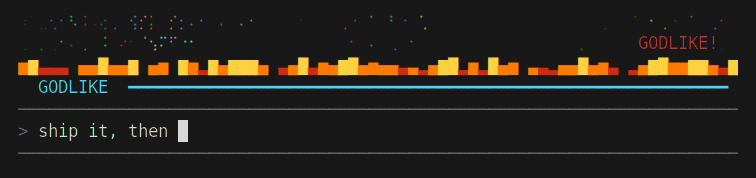
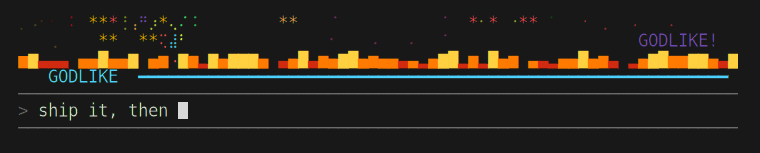
Celebrate levels drawn and documented; bigger band, starry bursts
Levels 2 to 4 grow the band (6 rows for 2, 10 for 3 and 4) so the
fireworks burst in view; rockets aim at the band's height. Firework
fragments show as stars before fading, each burst keeps its rocket's
color, and a level 3 or 4 shout holds for the whole show. The demo
renders one GIF per level, on a fixed canvas so every frame encodes.

diff --git a/hooks/register.tsx b/hooks/register.tsx
@@ -3,7 +3,8 @@ import type { Register } from 'claude-code'
 
 const isActive = atom({ plugin: 'power-mode', key: 'isActive' } as const, false)
 const isEnabled = atom({ plugin: 'power-mode', key: 'isEnabled' } as const, true)
-const isNuking = atom({ plugin: 'power-mode', key: 'isNuking' } as const, false)
+// The band grows for a nuke and for the bigger celebrations.
+const isTall = atom({ plugin: 'power-mode', key: 'isTall' } as const, false)
 
 const TICK_MS = 33
 // Columns the prompt draws before the draft ("> "), so sparks leave the caret.
@@ -20,6 +21,7 @@ const NUKE_MS = 2800
 const NUKE_ROWS = 10 // the band grows to this many spark rows for a nuke, room allowing
 const CELEBRATE = 'celebrate'
 const VOLLEY_MS = 350 // between rocket volleys at level 4
+const STAR_MS = 220 // how long a firework fragment shows as a star
 const LEVEL_SHOUTS = ['', 'Nice!', 'Boom!', 'Huge!', 'LEGENDARY!', 'KABOOM!']
 // What a long paste becomes in the prompt box: the mod may see this, not the text.
 const PASTE_PLACEHOLDER = /\[Pasted text #(\d+)/g
@@ -57,9 +59,11 @@ const BASE64 = 'ABCDEFGHIJKLMNOPQRSTUVWXYZabcdefghijklmnopqrstuvwxyz0123456789+/
 
 // `h` is height above the bottom of the spark rows, in braille dots, so a
 // particle stays put when the band grows for a nuke.
-type Particle = { x: number; h: number; vx: number; vh: number; age: number; life: number; color: number; fuse: number }
+// A `star` is a fresh firework fragment, drawn as a full `*` before it fades to a dot.
+type Particle = { x: number; h: number; vx: number; vh: number; age: number; life: number; color: number; fuse: number; star?: boolean }
 type Geometry = { requestId: string; columns: number; rows: number }
-type Exclamation = { text: string; age: number; color: number }
+// `ms` is how long it shows; a big celebration holds its shout for the whole show.
+type Exclamation = { text: string; age: number; color: number; ms: number }
 type Nuke = { age: number; column: number }
 
 const clamp = (n: number, lo: number, hi: number) => Math.max(lo, Math.min(hi, Math.floor(n)))
@@ -121,6 +125,20 @@ export const register: Register = (on, options) => {
   let shakeUntil = 0
   // Rocket volleys still to launch for a level-4 celebration, by frame time.
   let volleys: number[] = []
+  // While `tall`, the band is `tallRows` spark rows (room allowing) until `tallUntil`.
+  let tall = false
+  let tallRows = NUKE_ROWS
+  let tallUntil = 0
+  let maxRowsSeen = 24
+
+  function grow(rows: number, ms: number) {
+    tall = true
+    tallRows = Math.max(rows, nuke !== undefined ? NUKE_ROWS : 0)
+    tallUntil = Math.max(tallUntil, t + ms)
+  }
+
+  // Spark rows the band has, or is about to have: what rockets aim for.
+  const bandRows = () => (tall ? clamp(Math.min(tallRows, maxRowsSeen - 2), sparkRows, NUKE_ROWS) : sparkRows)
   const seenPastes = new Set<string>()
 
   // Placeholder ids in `text` not seen before: each one is a long paste.
@@ -139,14 +157,14 @@ export const register: Register = (on, options) => {
 
   // One animation frame from a timer: what the hook that owns the timer must do.
   function tick(): { saveBest: boolean; shrink: boolean; stop: boolean; cells?: string } {
-    const { expired, nukeEnded, idle } = step()
+    const { expired, shrink, idle } = step()
 
-    return { saveBest: expired, shrink: nukeEnded, stop: idle, cells: !idle && geometry !== undefined ? frame() : undefined }
+    return { saveBest: expired, shrink, stop: idle, cells: !idle && geometry !== undefined ? frame() : undefined }
   }
 
   const colorsNow = () => (tierOf(combo) === TIERS.length - 1 ? RAINBOW : palette)
 
-  function burst(column: number, count: number, spread: number, speed: number, fireworks = false) {
+  function burst(column: number, count: number, spread: number, speed: number, fireworks = false, star = false) {
     for (let i = 0; i < count; i++) {
       particles.push({
         x: column * 2 + 1 + (Math.random() - 0.5) * spread,
@@ -157,6 +175,7 @@ export const register: Register = (on, options) => {
         life: 450 + Math.random() * 500,
         color: pick(colorsNow()),
         fuse: fireworks && Math.random() < 0.15 ? 250 + Math.random() * 200 : 0,
+        star,
       })
     }
     if (particles.length > 600) particles = particles.slice(-600)
@@ -254,7 +273,15 @@ export const register: Register = (on, options) => {
       if (dx < 0 || dy < 0 || dx >= columns * 2 || dy >= height) continue
       const i = Math.floor(dy / 4) * columns + Math.floor(dx / 2)
       const held = glyph[i] ?? SPACE
-      // Sparks draw over empty cells and other sparks, never over cloud or flame.
+      if (p.star && p.age < STAR_MS) {
+        if (held === SPACE || (held >= 0x2800 && held <= 0x28ff)) {
+          glyph[i] = 0x2a // *
+          fg[i] = p.color
+          freshest[i] = -1
+        }
+        continue
+      }
+      // Sparks draw over empty cells and other sparks, never over cloud, flame or a star.
       if (held !== SPACE && (held < 0x2800 || held > 0x28ff)) continue
       glyph[i] = (held === SPACE ? 0x2800 : held) | (DOT[(dy % 4) * 2 + (dx % 2)] ?? 0)
       if (p.age < (freshest[i] ?? Infinity)) {
@@ -265,7 +292,7 @@ export const register: Register = (on, options) => {
 
     // The exclamation floats up the right side of the spark rows.
     if (exclamation !== undefined) {
-      const k = exclamation.age / EXCLAIM_MS
+      const k = exclamation.age / exclamation.ms
       const row = clamp((spark - 1) * (1 - k), 0, spark - 1)
       const jitter = exclamation.age < 300 ? Math.round((Math.random() - 0.5) * 2) : 0
       const start = clamp(columns - exclamation.text.length - 2 + jitter, 0, columns)
@@ -309,9 +336,9 @@ export const register: Register = (on, options) => {
     return toBase64(new Uint8Array(words.buffer))
   }
 
-  // Advances one frame. `expired` says the combo just ran out, `nukeEnded`
-  // that the band can shrink back, `idle` that the timer should stop.
-  function step(): { expired: boolean; nukeEnded: boolean; idle: boolean } {
+  // Advances one frame. `expired` says the combo just ran out, `shrink` that
+  // the band can go back to its size, `idle` that the timer should stop.
+  function step(): { expired: boolean; shrink: boolean; idle: boolean } {
     t += TICK_MS
     const dt = TICK_MS / 1000
     const born: Particle[] = []
@@ -327,7 +354,7 @@ export const register: Register = (on, options) => {
         for (let i = 0; i < 10; i++) {
           const a = (i / 10) * Math.PI * 2
           const v = 18 + Math.random() * 8
-          born.push({ x: p.x, h: p.h, vx: Math.cos(a) * v * 2, vh: Math.sin(a) * v, age: 0, life: 420, color: pick(colorsNow()), fuse: 0 })
+          born.push({ x: p.x, h: p.h, vx: Math.cos(a) * v * 2, vh: Math.sin(a) * v, age: 0, life: 520, color: p.color, fuse: 0, star: true })
         }
       }
     }
@@ -335,16 +362,18 @@ export const register: Register = (on, options) => {
 
     if (exclamation !== undefined) {
       exclamation.age += TICK_MS
-      if (exclamation.age > EXCLAIM_MS) exclamation = undefined
+      if (exclamation.age > exclamation.ms) exclamation = undefined
     }
 
-    let nukeEnded = false
     if (nuke !== undefined) {
       nuke.age += TICK_MS
-      if (nuke.age > NUKE_MS) {
-        nuke = undefined
-        nukeEnded = true
-      }
+      if (nuke.age > NUKE_MS) nuke = undefined
+    }
+
+    let shrink = false
+    if (tall && nuke === undefined && volleys.length === 0 && t >= tallUntil) {
+      tall = false
+      shrink = true
     }
 
     while (volleys.length > 0 && (volleys[0] ?? Infinity) <= t) {
@@ -357,7 +386,7 @@ export const register: Register = (on, options) => {
 
     return {
       expired,
-      nukeEnded,
+      shrink,
       idle: combo === 0 && particles.length === 0 && exclamation === undefined && nuke === undefined && volleys.length === 0,
     }
   }
@@ -367,55 +396,61 @@ export const register: Register = (on, options) => {
     combo = 0
   }
 
-  function exclaim(text: string, colors: readonly number[] = colorsNow()) {
-    exclamation = { text, age: 0, color: pick(colors) }
+  function exclaim(text: string, colors: readonly number[] = colorsNow(), ms = EXCLAIM_MS) {
+    exclamation = { text, age: 0, color: pick(colors), ms }
   }
 
-  // Rockets from random columns that climb high and burst into rings.
+  // Rockets from random columns that climb to between half and nine tenths of
+  // the band and burst into rings at the top of their arc, so they burst in
+  // view however tall the band is.
   function launchRockets(count: number, rainbow: boolean) {
     const width = geometry?.columns ?? 80
+    const height = bandRows() * 4
     for (let i = 0; i < count; i++) {
+      const vh = Math.sqrt(2 * GRAVITY * height * (0.5 + Math.random() * 0.4))
       particles.push({
         x: (4 + Math.random() * (width - 8)) * 2,
         h: 0.5,
         vx: (Math.random() - 0.5) * 10,
-        vh: 42 + Math.random() * 14,
+        vh,
         age: 0,
-        life: 2000,
+        life: 4000,
         color: pick(rainbow ? RAINBOW : palette),
-        fuse: 380 + Math.random() * 220,
+        fuse: (vh / GRAVITY) * 1000,
       })
     }
   }
 
   // Claude's own celebration: 1 a few sparks, 2 fireworks, 3 a finale with a
-  // shout, 4 volleys of rainbow fireworks, 5 the nuke. Returns whether it nuked.
+  // shout, 4 volleys of rainbow fireworks, 5 the nuke. Returns whether the band grows.
   function celebrate(level: number, shout: string): boolean {
     const width = geometry?.columns ?? 80
     const words = shout.trim().slice(0, 28) || (LEVEL_SHOUTS[level] ?? '')
 
     if (level >= 5) {
       nuke = { age: 0, column: Math.floor(width / 2) }
+      grow(NUKE_ROWS, NUKE_MS)
       burst(nuke.column, 120, 30, 1.8, true)
       exclaim(words, RAINBOW)
       return true
     }
     if (level === 1) {
-      for (let i = 0; i < 3; i++) burst(4 + Math.floor(Math.random() * (width - 8)), 6, 2, 1)
+      for (let i = 0; i < 3; i++) burst(4 + Math.floor(Math.random() * (width - 8)), 6, 2, 1, false, true)
     }
+    if (level >= 2) grow(level === 2 ? 6 : NUKE_ROWS, level === 4 ? 5 * VOLLEY_MS + 2200 : 2400)
     if (level === 2) launchRockets(4, false)
     if (level === 3) {
       launchRockets(8, true)
-      exclaim(words, RAINBOW)
+      exclaim(words, RAINBOW, 2400)
     }
     if (level === 4) {
       launchRockets(6, true)
       volleys = [1, 2, 3, 4, 5].map(n => t + n * VOLLEY_MS)
-      exclaim(words, RAINBOW)
+      exclaim(words, RAINBOW, 5 * VOLLEY_MS + 1800)
     }
     if (level === 2 && shout.trim()) exclaim(words)
 
-    return false
+    return level >= 2
   }
 
   // A hit of `chars` characters at `column`. Returns whether it set off a nuke.
@@ -430,6 +465,7 @@ export const register: Register = (on, options) => {
 
     if (isPaste && chars >= NUKE_PASTE) {
       nuke = { age: 0, column: clamp(column, 8, Math.max(8, width - 9)) }
+      grow(NUKE_ROWS, NUKE_MS)
       burst(nuke.column, 120, 30, 1.8, true)
       exclaim(pick(NUKE_WORDS))
       return true
@@ -488,9 +524,11 @@ export const register: Register = (on, options) => {
       particles = []
       exclamation = undefined
       nuke = undefined
+      volleys = []
+      tall = false
       endCombo()
       await $.store.set('best', best)
-      await update($, isNuking, () => false)
+      await update($, isTall, () => false)
       await update($, isActive, () => false)
     }
 
@@ -513,7 +551,7 @@ export const register: Register = (on, options) => {
         timer = $.clock.every(TICK_MS, () => {
           const r = tick()
           if (r.saveBest) void $.store.set('best', best)
-          if (r.shrink) void update($, isNuking, () => false)
+          if (r.shrink) void update($, isTall, () => false)
           if (r.stop) {
             timer?.cancel()
             timer = undefined
@@ -523,7 +561,7 @@ export const register: Register = (on, options) => {
           }
         })
       }
-      if (isNuke) await update($, isNuking, () => true)
+      if (isNuke) await update($, isTall, () => true)
       await update($, isActive, () => true)
     }
 
@@ -540,7 +578,7 @@ export const register: Register = (on, options) => {
         timer = $.clock.every(TICK_MS, () => {
           const r = tick()
           if (r.saveBest) void $.store.set('best', best)
-          if (r.shrink) void update($, isNuking, () => false)
+          if (r.shrink) void update($, isTall, () => false)
           if (r.stop) {
             timer?.cancel()
             timer = undefined
@@ -550,7 +588,7 @@ export const register: Register = (on, options) => {
           }
         })
       }
-      await update($, isNuking, () => true)
+      await update($, isTall, () => true)
       await update($, isActive, () => true)
     }
 
@@ -567,12 +605,12 @@ export const register: Register = (on, options) => {
 
     if (!(await read($, isEnabled))) return { result: 'Power Mode is off; nothing was drawn.' }
 
-    const isNuke = celebrate(level, shout)
+    const isTallNow = celebrate(level, shout)
     if (timer === undefined) {
       timer = $.clock.every(TICK_MS, () => {
         const r = tick()
         if (r.saveBest) void $.store.set('best', best)
-        if (r.shrink) void update($, isNuking, () => false)
+        if (r.shrink) void update($, isTall, () => false)
         if (r.stop) {
           timer?.cancel()
           timer = undefined
@@ -582,7 +620,7 @@ export const register: Register = (on, options) => {
         }
       })
     }
-    if (isNuke) await update($, isNuking, () => true)
+    if (isTallNow) await update($, isTall, () => true)
     await update($, isActive, () => true)
 
     return { result: `Celebrated at level ${level}.` }
@@ -604,8 +642,8 @@ export const register: Register = (on, options) => {
       !e.props.hasSurvey &&
       (await read($, isEnabled)) &&
       (await read($, isActive))
-    const nukeRows = clamp(e.props.maxRows - 2, sparkRows, NUKE_ROWS)
-    let rows = ((await read($, isNuking)) ? nukeRows : sparkRows) + 1
+    maxRowsSeen = e.props.maxRows
+    let rows = ((await read($, isTall)) ? bandRows() : sparkRows) + 1
     if (rows + 1 > e.props.maxRows) rows = sparkRows + 1
 
     if (!isShown || e.surface !== 'terminal' || rows + 1 > e.props.maxRows) {

diff --git a/tests/power-mode.test.tsx b/tests/power-mode.test.tsx
@@ -188,3 +188,21 @@ test('level 5 is the nuke', async ($, on) => {
   expect((await ui.find({ key: 'sparks' }))?.props.rows).toBe(11)
   await ui.unmount()
 })
+
+test('levels 2 and 3 grow the band for the fireworks, then it shrinks back', async ($, on) => {
+  const clock = engine(on)
+  await $.session.start({ cwd: '/', surface: 'terminal', isInteractive: true })
+
+  const ui = await $.ui.mount(BAND)
+  await $.tool.call({ tool: 'mcp__power-mode__celebrate', level: 2 } as never)
+  await clock.advance(33)
+  expect((await ui.find({ key: 'sparks' }))?.props.rows).toBe(7)
+
+  await $.tool.call({ tool: 'mcp__power-mode__celebrate', level: 3, shout: 'BIG' } as never)
+  await clock.advance(33)
+  expect((await ui.find({ key: 'sparks' }))?.props.rows).toBe(11)
+
+  await clock.advance(6000)
+  expect(await ui.find({ key: 'sparks' })).toBeUndefined()
+  await ui.unmount()
+})

diff --git a/types/index.d.ts b/types/index.d.ts
@@ -2,6 +2,6 @@ export type Palette = 'fire' | 'rainbow' | 'ice' | 'matrix'
 
 declare module 'claude-code' {
   interface PluginState {
-    'power-mode': { isActive: boolean; isEnabled: boolean; isNuking: boolean }
+    'power-mode': { isActive: boolean; isEnabled: boolean; isTall: boolean }
   }
 }

diff --git a/README.md b/README.md
@@ -66,13 +66,13 @@ Submitting a prompt mid-combo fires one last burst across the width.
 when something earns it: tests green after a fight, a hard bug found, a deploy landing.
 It picks the level by how big the moment is:
 
-| Level | For | What you see |
-|---|---|---|
-| 1 | a small win | a few sparks |
-| 2 | a solid one | fireworks |
-| 3 | a big one | a fireworks finale with Claude's shout ("ALL GREEN!") |
-| 4 | a milestone | volleys of rainbow fireworks |
-| 5 | once a project | the mushroom cloud |
+| Level | For | What you see | |
+|---|---|---|---|
+| 1 | a small win | a few sparks | ![Level 1](docs/demo/celebrate-1.gif) |
+| 2 | a solid one | fireworks, the band grows to fit them | ![Level 2](docs/demo/celebrate-2.gif) |
+| 3 | a big one | a fireworks finale with Claude's shout ("ALL GREEN!") | ![Level 3](docs/demo/celebrate-3.gif) |
+| 4 | a milestone | five volleys of rainbow fireworks | ![Level 4](docs/demo/celebrate-4.gif) |
+| 5 | once a project | the mushroom cloud | ![Level 5](docs/demo/celebrate-5.gif) |
 
 The tool only draws, so it never asks for permission, and its description tells Claude
 to keep it rare. `/power-mode` off silences it too.
